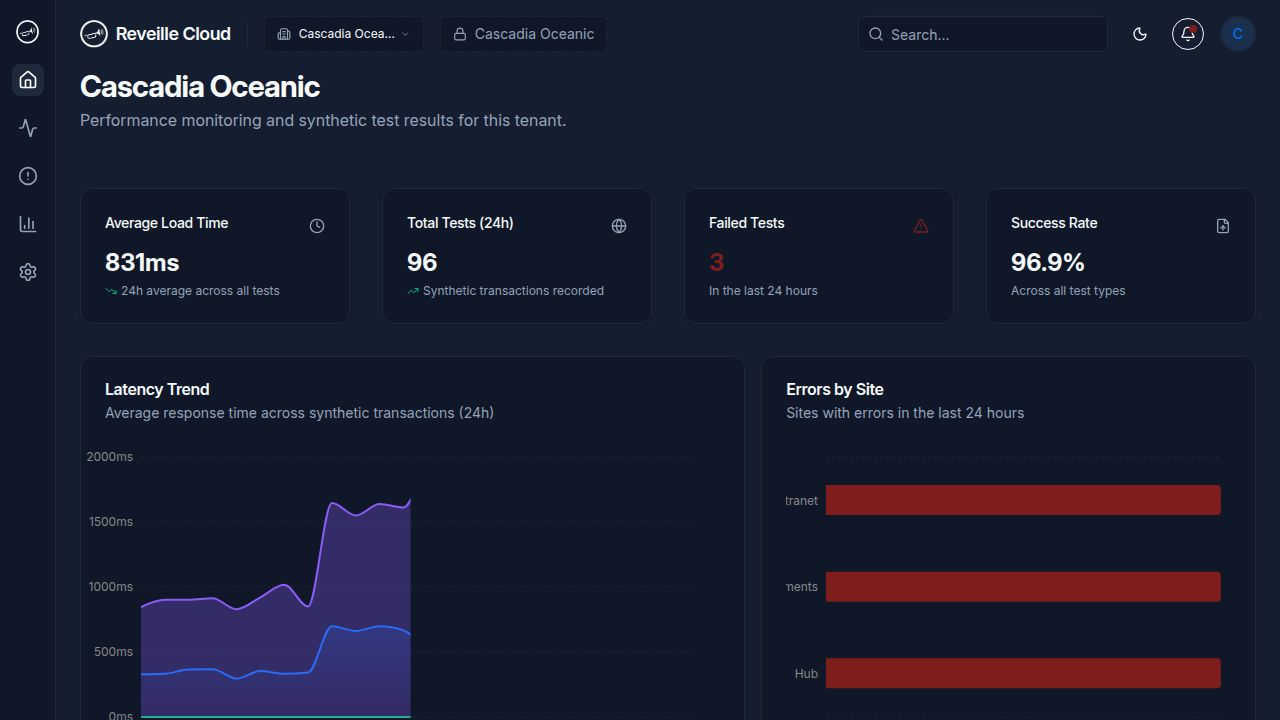
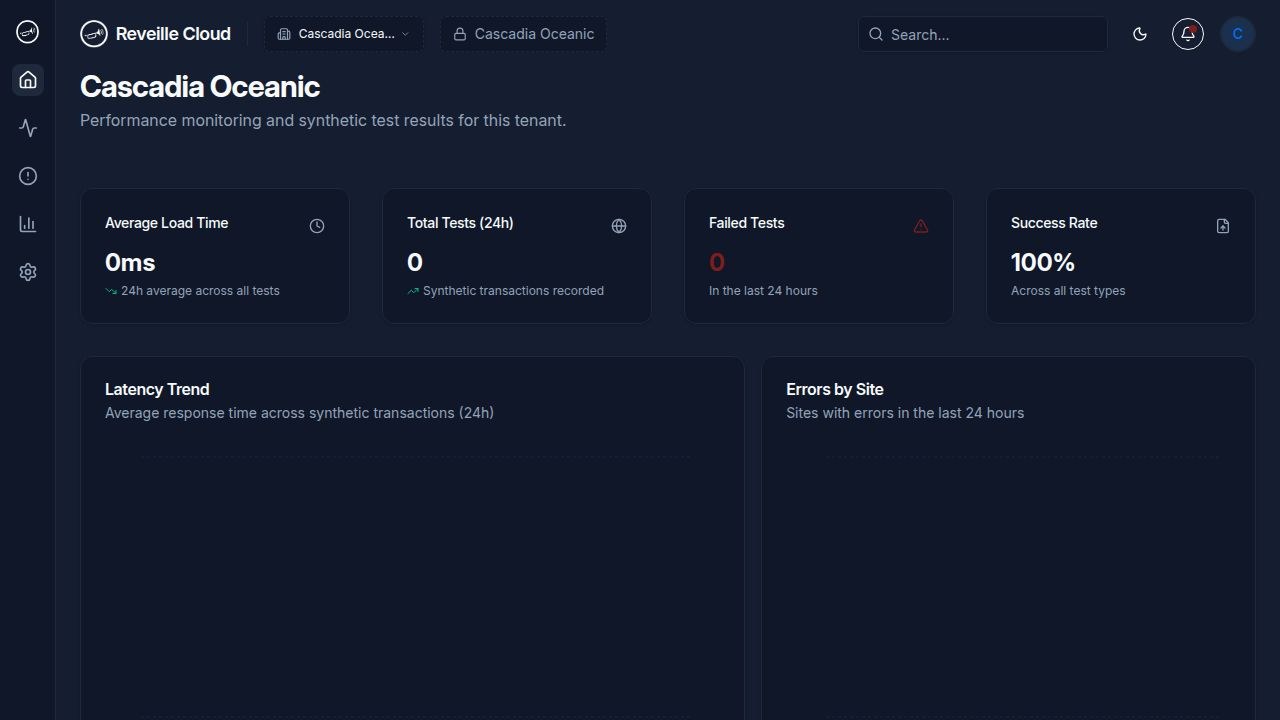
Update seeding to only include real data
Remove synthetic metric generation from the database seeding process in `server/seed.ts`.

Replit-Commit-Author: Agent
Replit-Commit-Session-Id: d369ee71-4fa6-4553-b1ac-325e3540190d
Replit-Commit-Checkpoint-Type: full_checkpoint
Replit-Commit-Event-Id: a64a78cf-0b74-46b9-966d-76f734975b09
Replit-Commit-Screenshot-Url: https://storage.googleapis.com/screenshot-production-us-central1/a0f16eec-578b-48d3-9621-63b44943948e/d369ee71-4fa6-4553-b1ac-325e3540190d/FgCUM2Q
Replit-Helium-Checkpoint-Created: true

diff --git a/server/seed.ts b/server/seed.ts
@@ -1,5 +1,5 @@
 import { db } from "./db";
-import { organizations, tenants, monitoredSystems, syntheticTests, alertRules, metrics, alerts } from "@shared/schema";
+import { organizations, tenants, monitoredSystems, syntheticTests, alertRules, alerts } from "@shared/schema";
 import { sql } from "drizzle-orm";
 
 export async function seedDatabase() {
@@ -58,31 +58,6 @@ export async function seedDatabase() {
     { tenantId: acme.id, name: "Authentication Failure Spike", description: "Triggers when auth failure rate exceeds 5% in 15 mins", metric: "error_rate", condition: "gt", threshold: 5, enabled: false, channels: [{ type: "email", target: "admin@acmecorp.com" }] },
     { tenantId: globex.id, name: "File Transfer SLA", description: "Triggers when file upload exceeds 5000ms", metric: "file_upload", condition: "gt", threshold: 5000, enabled: true, channels: [{ type: "webhook", target: "https://globex.webhook.io/alerts" }] },
   ]);
-
-  const now = Date.now();
-  const metricValues: any[] = [];
-  const sites = ["Hub", "HR Portal", "IT Support", "Marketing", "Engineering"];
-
-  for (let i = 0; i < 48; i++) {
-    const ts = new Date(now - i * 30 * 60 * 1000);
-    const hour = ts.getHours();
-    const loadFactor = hour >= 8 && hour <= 17 ? 1.5 : 0.8;
-
-    metricValues.push(
-      { tenantId: acme.id, metricName: "page_load", value: Math.round((400 + Math.random() * 200) * loadFactor), unit: "ms", site: sites[i % 5], status: Math.random() > 0.95 ? "Failed" : "Success", timestamp: ts },
-      { tenantId: acme.id, metricName: "file_upload", value: Math.round((1000 + Math.random() * 500) * loadFactor), unit: "ms", site: "Documents", status: Math.random() > 0.9 ? "Failed" : "Success", timestamp: ts },
-      { tenantId: acme.id, metricName: "search", value: Math.round((600 + Math.random() * 300) * loadFactor), unit: "ms", site: "Search", status: "Success", timestamp: ts },
-      { tenantId: globex.id, metricName: "page_load", value: Math.round((350 + Math.random() * 150) * loadFactor), unit: "ms", site: "Main Hub", status: "Success", timestamp: ts },
-      { tenantId: initech.id, metricName: "page_load", value: Math.round((2500 + Math.random() * 1500) * loadFactor), unit: "ms", site: "Portal", status: Math.random() > 0.7 ? "Failed" : "Success", timestamp: ts },
-      { tenantId: soylent.id, metricName: "page_load", value: Math.round((380 + Math.random() * 120) * loadFactor), unit: "ms", site: "Hub", status: "Success", timestamp: ts },
-      { tenantId: cascadiaTenant.id, metricName: "page_load", value: Math.round((350 + Math.random() * 150) * loadFactor), unit: "ms", site: "Hub", status: "Success", timestamp: ts },
-      { tenantId: cascadiaTenant.id, metricName: "file_upload", value: Math.round((900 + Math.random() * 400) * loadFactor), unit: "ms", site: "Documents", status: "Success", timestamp: ts },
-    );
-  }
-
-  for (let i = 0; i < metricValues.length; i += 50) {
-    await db.insert(metrics).values(metricValues.slice(i, i + 50));
-  }
 
   await db.insert(alerts).values([
     { tenantId: initech.id, title: "Critical: Page load exceeding 3.5s", severity: "critical", message: "Initech Portal load time consistently above SLA threshold for 2 hours.", acknowledged: false },

diff --git a/replit.md b/replit.md
@@ -21,7 +21,7 @@ server/
   routes.ts        - API route handlers (/api/*)
   storage.ts       - Database storage interface (IStorage + DatabaseStorage)
   db.ts            - Drizzle ORM + pg Pool setup
-  seed.ts          - Database seeding with sample tenants/metrics
+  seed.ts          - Database seeding with org/tenant/test structure (no fake metrics - real data only)
   sharepoint.ts    - Microsoft Graph client auth (Replit SharePoint connector)
   testRunner.ts    - Synthetic test execution engine (Page Load, File Transfer, Search, Auth)
 shared/
